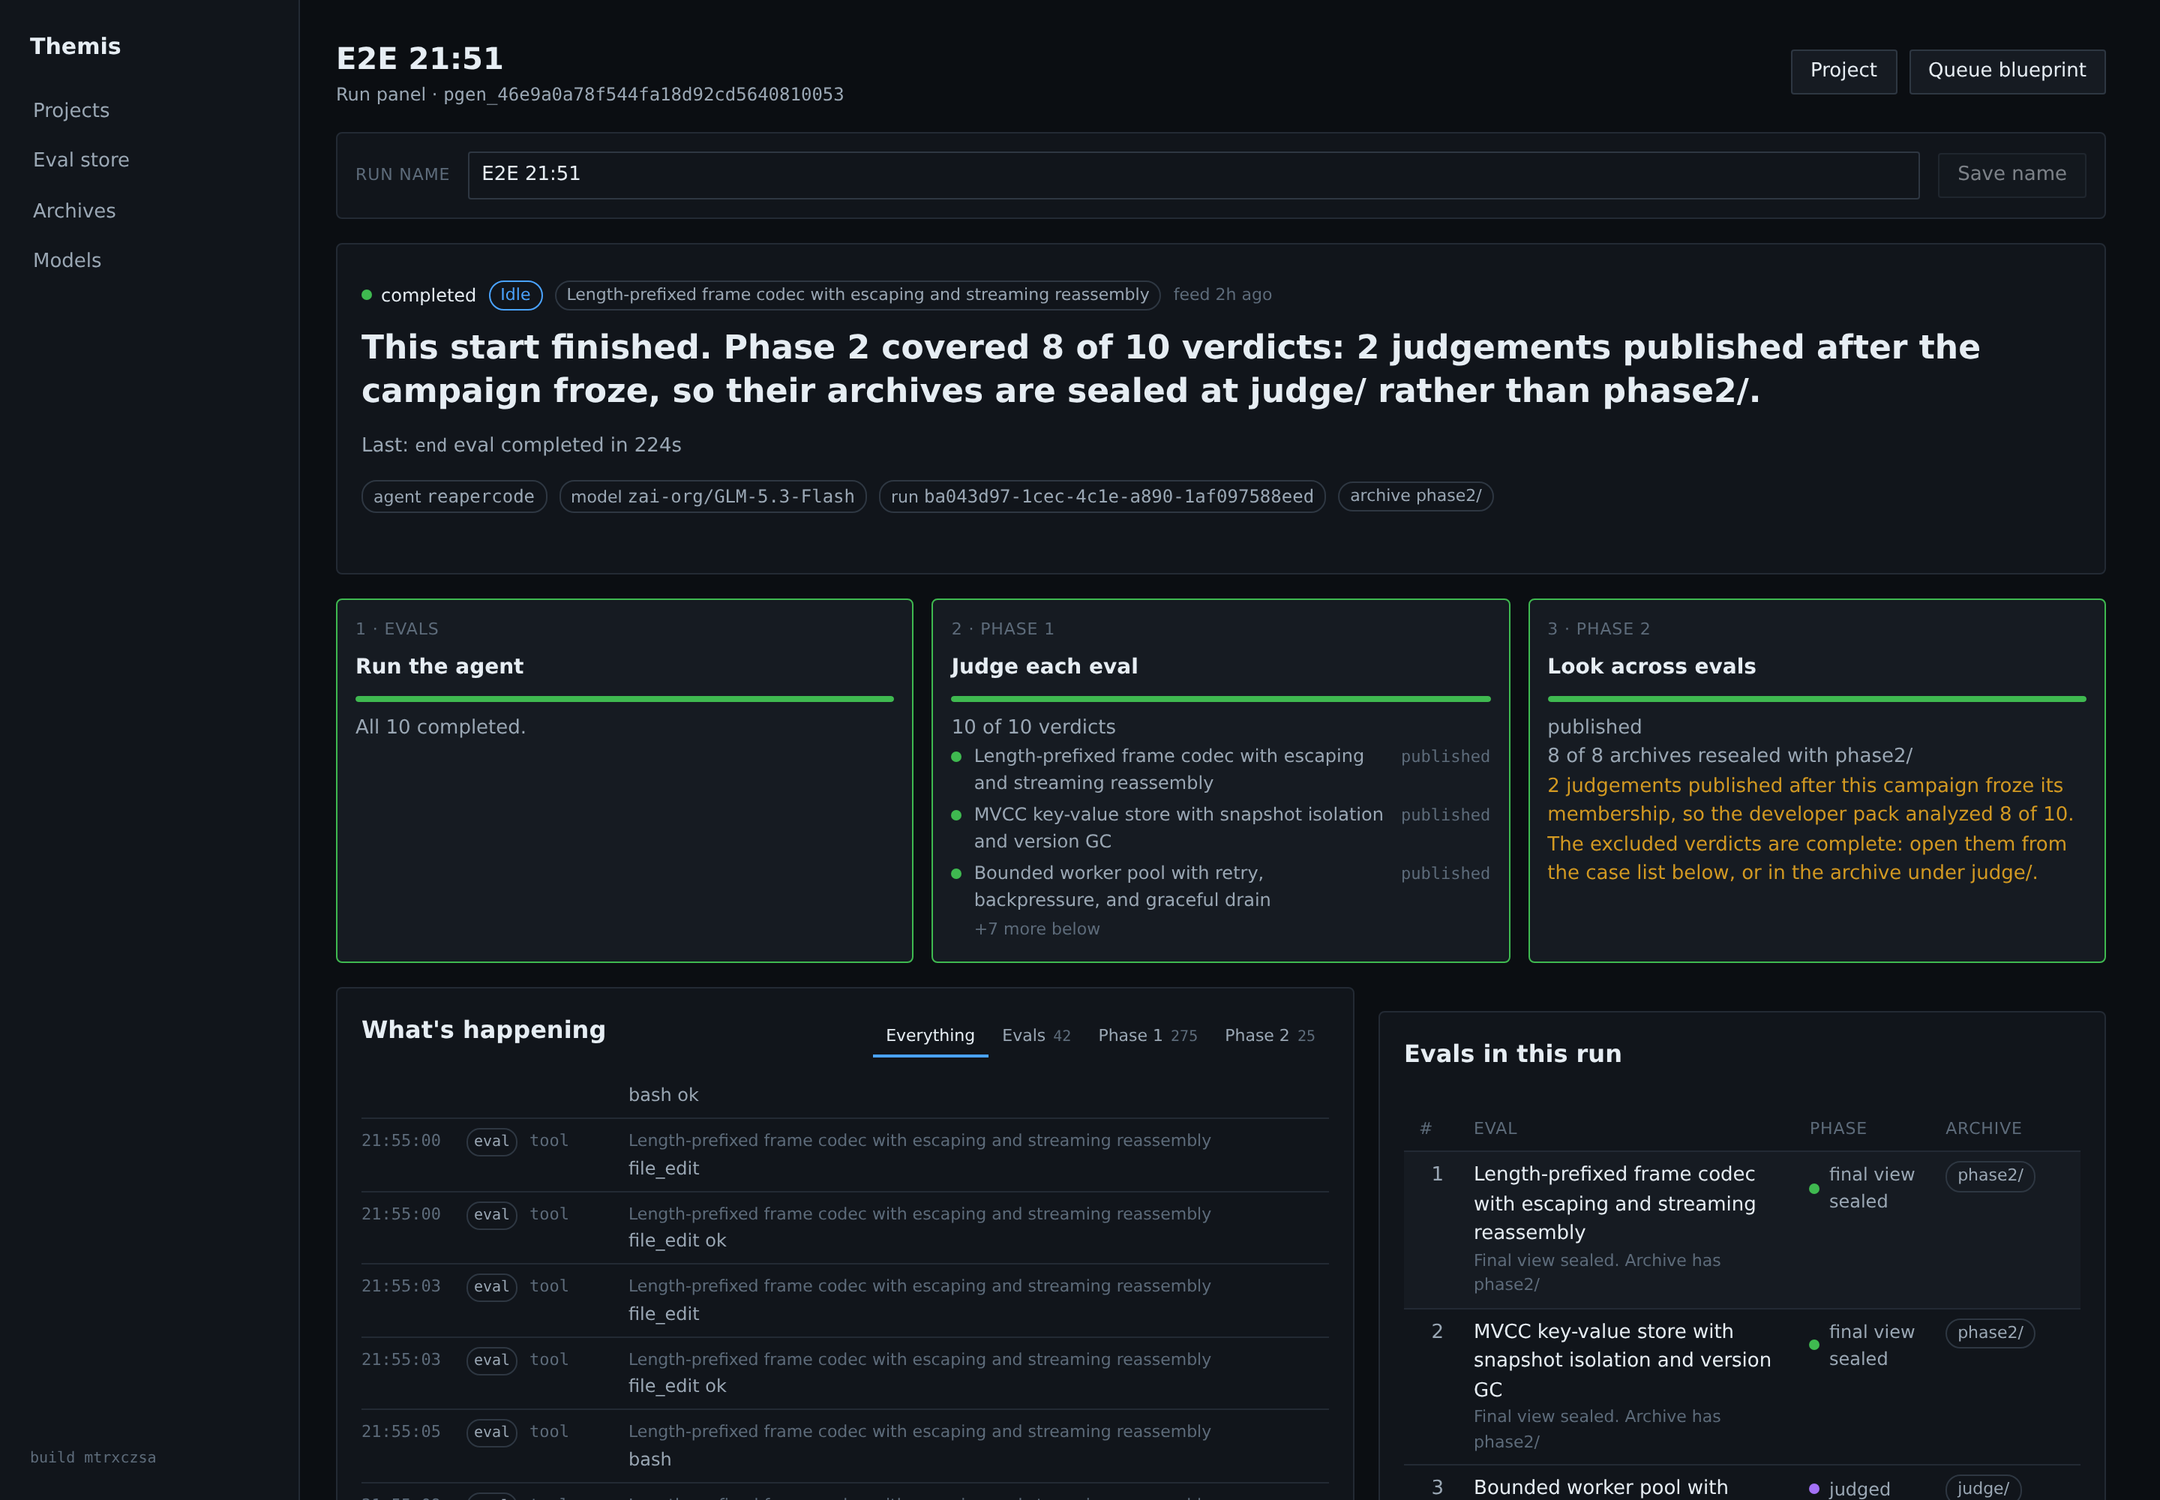
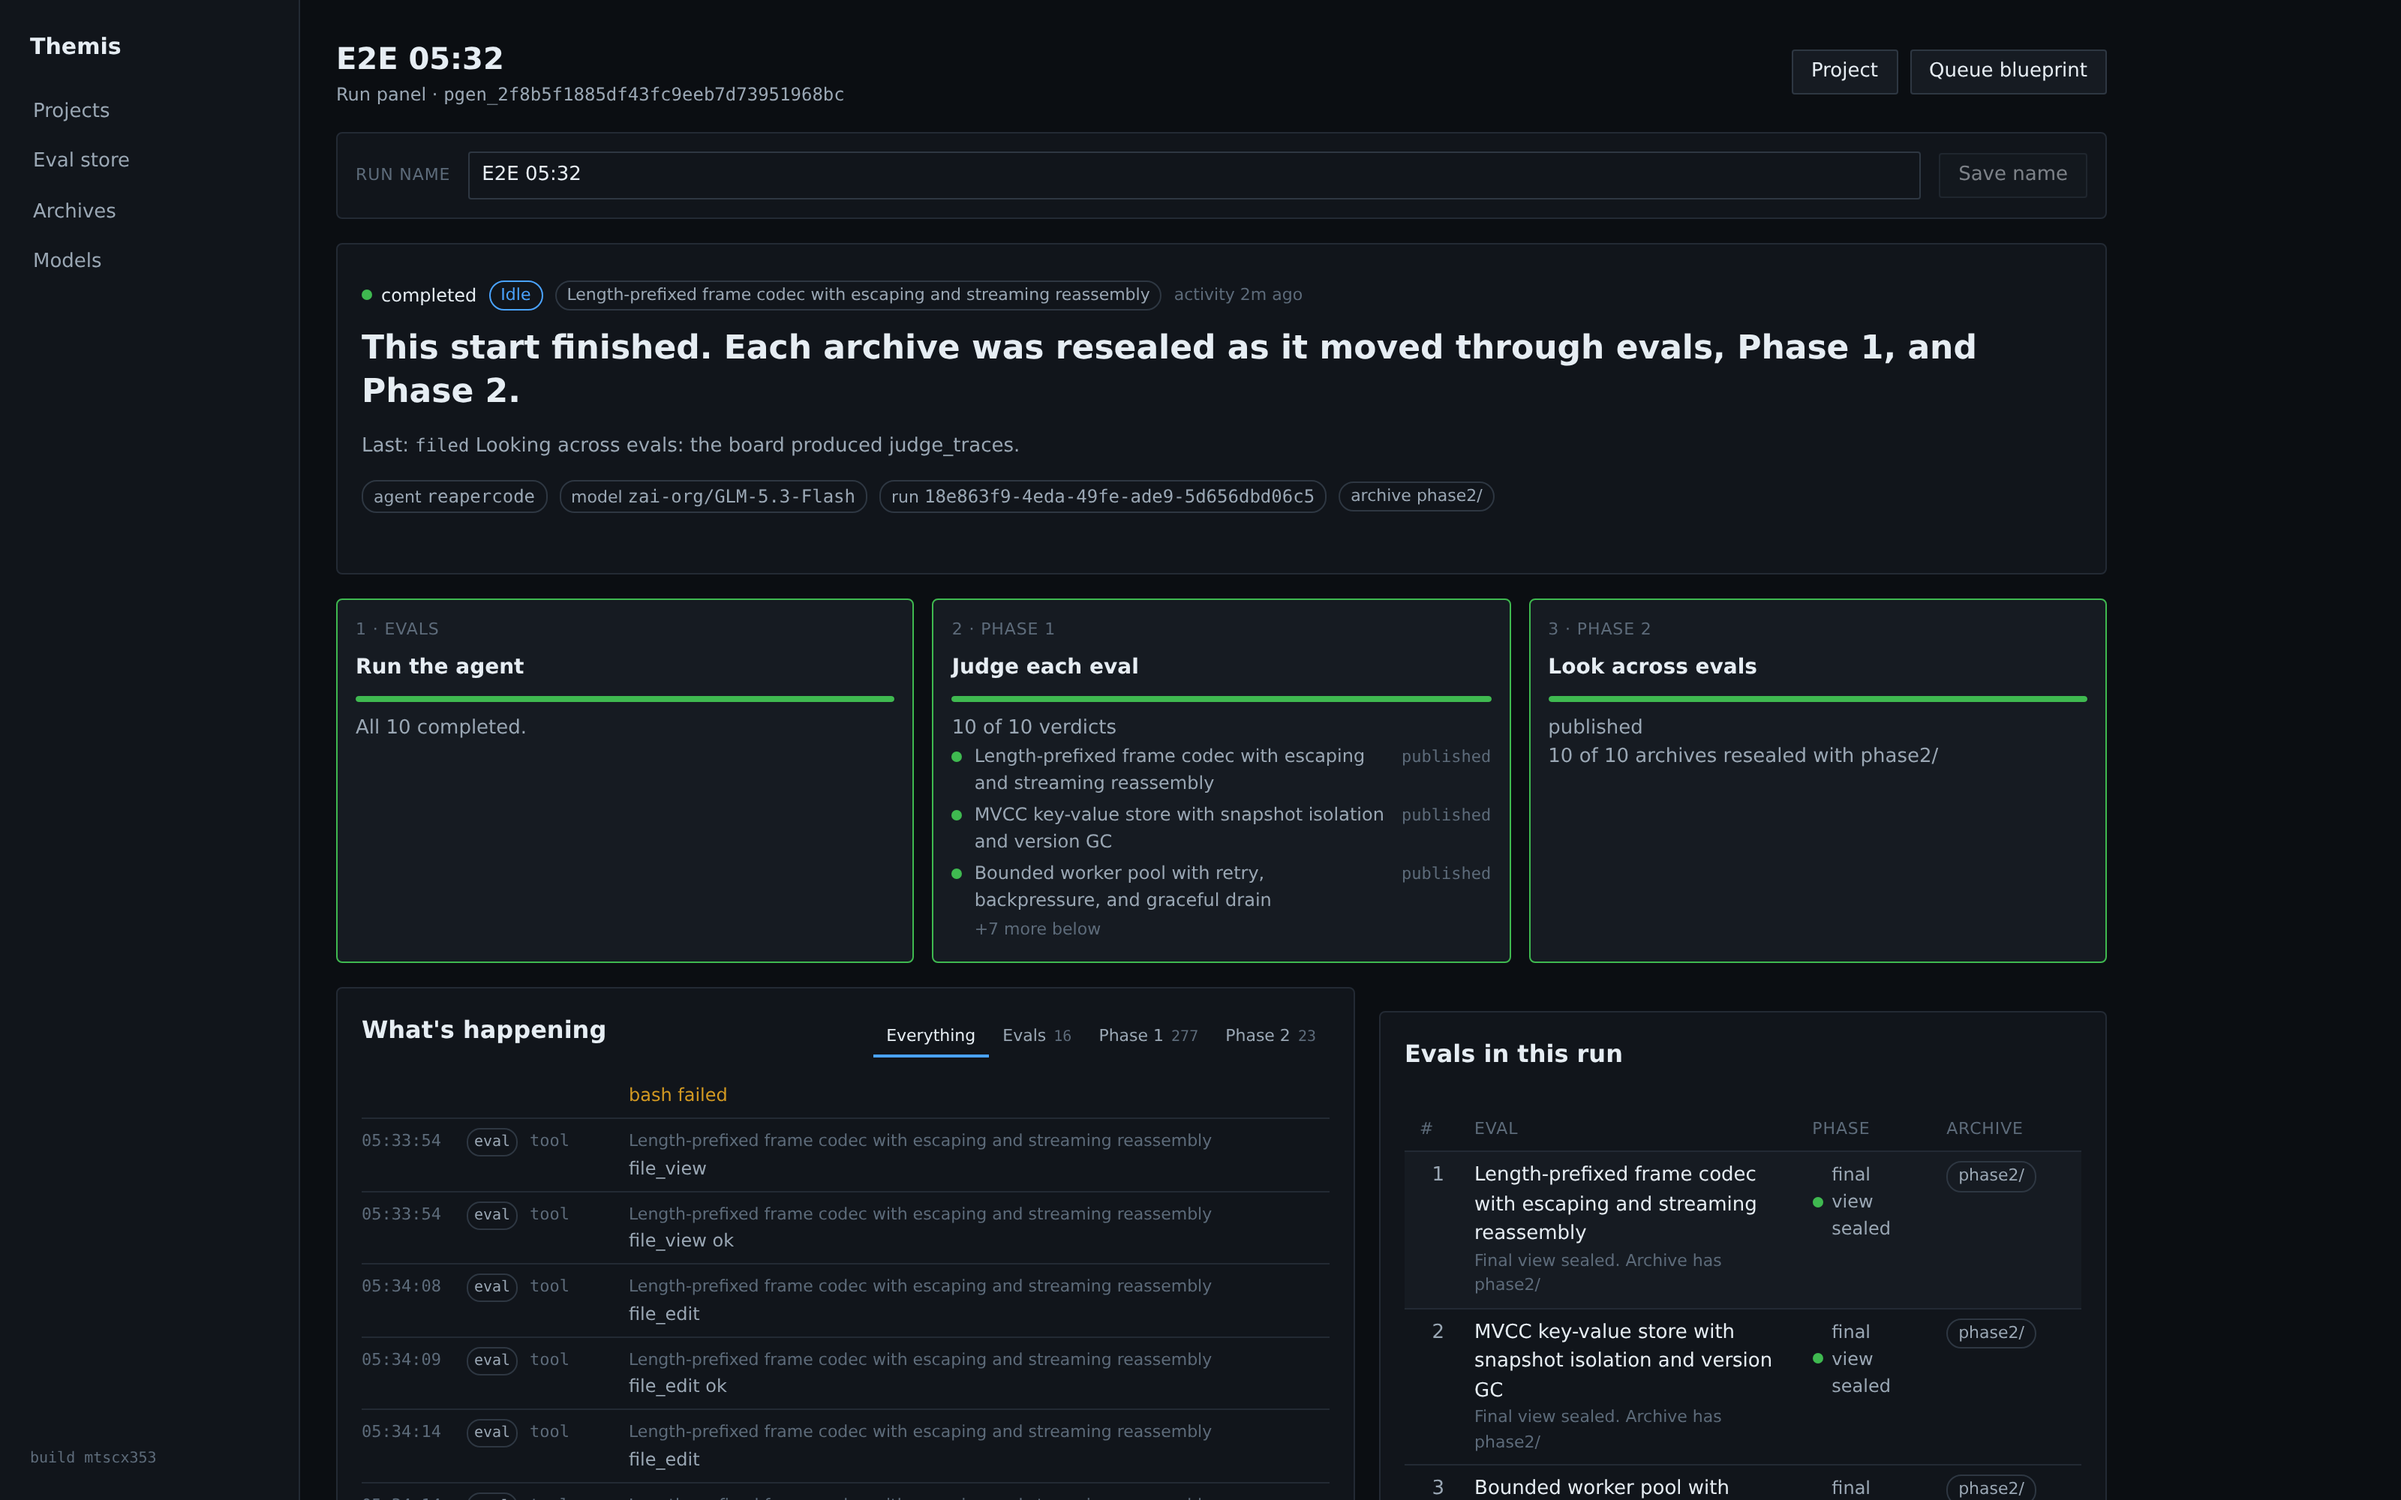
docs: rebuild README screenshot section as an ordered flow walkthrough
Replace the run panel, archive catalog, and archive detail shots with the
green 10/10 run (the old ones came from an 8/10 run whose archive detail
showed a failed verifier and an empty judgement). Add the paused-judge and
mid-Phase-2 screens so pause/resume and the Phase 2 board are visible.

diff --git a/README.md b/README.md
@@ -121,45 +121,78 @@ Each project has one durable pipeline queue that advances eval execution → Pha
 automatically, with every stage separately triggerable, pausable, and resumable over the API. Resume is
 real: both courtrooms persist their PI session and re-attach with `--continue` rather than starting over.
 
-## What the console shows
+## The flow, screen by screen
 
-The screenshots below come from a real ten-eval run against ReaperCode, captured from the console at
-`web/`. Nothing in them is mocked.
+These screenshots come from a real ten-eval run against ReaperCode, captured from the console at `web/`.
+Nothing here is mocked. Read them in order and you have walked the whole platform.
 
-A project is one agent under test. It owns the adapters, the evals, the queue, and every run.
+### 1. Create a project
+
+A project is one agent under test. It owns the adapters, the evals, the queue, and every run. Nothing is
+global, so two agents never share state.
 
 ![Projects list](./docs/images/01-projects.png)
 
-Opening a project shows its run history and the controls that start a new one.
+Opening a project shows its run history and the button that starts the next one.
 
 ![Project overview](./docs/images/02-project.png)
 
-Project settings pick the agent adapter, the model for each stage, and the judge prompts.
+### 2. Point it at an agent and its models
+
+Settings pick the agent adapter, the model for each stage, and the judge prompts. The agent model and the
+judge model are separate on purpose: nothing should grade itself.
 
 ![Project settings](./docs/images/03-settings.png)
 
-Evals live in the project. The eval store is the shared catalog you copy them from.
+### 3. Load evals
+
+Evals live in the project. The eval store is the shared catalog you copy them from, so importing an eval
+never runs it.
 
 ![Project evals](./docs/images/04-evals.png)
 ![Eval store](./docs/images/05-eval-store.png)
 
-The queue blueprint is durable. Each start creates a new generation from it.
+### 4. Build the queue and start
+
+The queue blueprint is durable. Tick the evals, choose which stages this start should do, then start. Each
+start creates a new generation, so an earlier run's numbers never move.
 
 ![Queue blueprint](./docs/images/06-queue.png)
 
-The run panel is the one screen to watch during a run. Three stage cards track evals, Phase 1, and
-Phase 2. The activity feed below merges pipeline events, judge node progress, court filings, and the
-live agent stream.
+### 5. Watch the run panel
+
+This is the one screen to keep open. Three stage cards track evals, Phase 1, and Phase 2. The activity feed
+underneath merges pipeline events, judge node progress, court filings, and the live agent stream. Below is
+a finished run: ten evals worked, ten verdicts published, ten archives resealed with `phase2/`.
 
 ![Run panel](./docs/images/07-run-panel.png)
 
-Every run seals one archive, resealed after Phase 1 and again after Phase 2. The detail page opens the
-tree and downloads the bundle.
+Mid-run, the Phase 2 card shows the board reading across the verdicts it already has.
+
+![Phase 2 board](./docs/images/12-phase2-board.png)
+
+### 6. Pause and resume anything
+
+Pause freezes the stage that is actually running, not the checkbox. The judge holds its PI session and
+resume continues the same case rather than rejudging from scratch. No completed work is thrown away.
+
+![Paused judge](./docs/images/11-pause-resume.png)
+
+### 7. Read the archives
+
+Every run seals one archive. Phase 1 reseals it with `judge/`, Phase 2 reseals it again with `phase2/`,
+and the base bytes never change.
 
 ![Archive catalog](./docs/images/08-archives.png)
+
+The detail page opens the sealed tree and downloads the bundle. `judge/evalJudge.yaml` is the per-eval
+verdict: what the agent did, whether the process was legitimate, and what should change.
+
 ![Archive detail](./docs/images/09-archive-detail.png)
 
-Deployment model defaults apply to any project that does not override them.
+### Deployment defaults
+
+Model defaults apply to any project that does not override them.
 
 ![Models](./docs/images/10-models.png)
 
